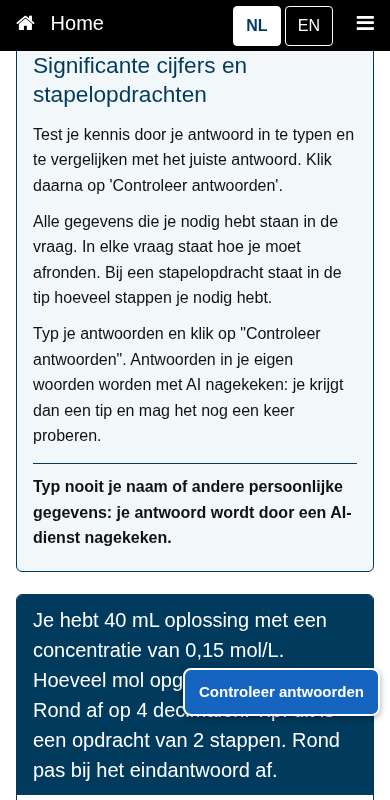
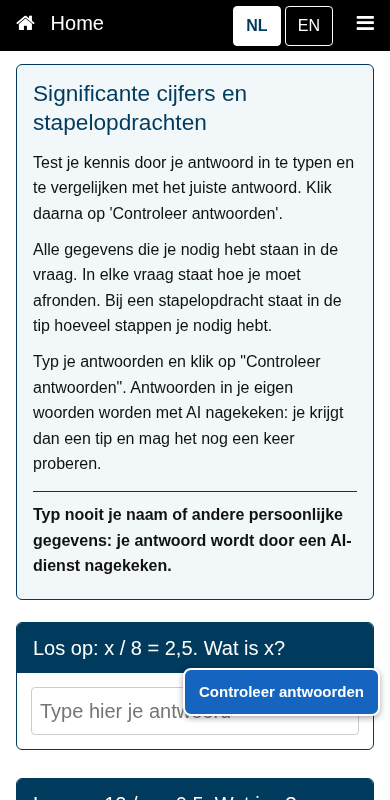
Intro-kader: ruimte onder vaste menubalk; cache-bust 20261101d; live-test + schermafbeeldingen

Changed region(s): [[0.0308, 0.0625, 0.9846, 1.0]]

diff --git a/index.html b/index.html
@@ -8,11 +8,11 @@
     <link rel="stylesheet" href="https://www.w3schools.com/w3css/4/w3.css">
     <link rel="stylesheet" href="https://www.w3schools.com/lib/w3-theme-black.css">
     <link rel="stylesheet" href="https://cdnjs.cloudflare.com/ajax/libs/font-awesome/4.7.0/css/font-awesome.min.css">
-    <link rel="stylesheet" href="123school.css?v=20261101c">
+    <link rel="stylesheet" href="123school.css?v=20261101d">
     <link rel="stylesheet" href="https://maxcdn.bootstrapcdn.com/bootstrap/3.3.7/css/bootstrap.min.css">
     <script src="https://ajax.googleapis.com/ajax/libs/jquery/3.3.1/jquery.min.js"></script>
     <script src="https://maxcdn.bootstrapcdn.com/bootstrap/3.3.7/js/bootstrap.min.js"></script>
-    <script src="i18n.js?v=20261101c"></script>
+    <script src="i18n.js?v=20261101d"></script>
 </head>
 <body class="home" id="myPage" data-pagina="index">
 <!-- Alle tekst komt uit lang/<taal>/ui.json (i18n.js): data-i18n="sleutel" -->
@@ -106,6 +106,6 @@
 </div>
 
 <div id="voet"></div>
-<script src="school.js?v=20261101c"></script>
+<script src="school.js?v=20261101d"></script>
 </body>
 </html>

diff --git a/rv3h-significante-cijfers-stappen-KB.html b/rv3h-significante-cijfers-stappen-KB.html
@@ -8,8 +8,8 @@
 <link rel="stylesheet" href="https://www.w3schools.com/w3css/4/w3.css">
 <link rel="stylesheet" href="https://www.w3schools.com/lib/w3-theme-black.css">
 <link rel="stylesheet" href="https://cdnjs.cloudflare.com/ajax/libs/font-awesome/4.7.0/css/font-awesome.min.css">
-<link rel="stylesheet" href="123school.css?v=20261101c">
-<script src="i18n.js?v=20261101c"></script>
+<link rel="stylesheet" href="123school.css?v=20261101d">
+<script src="i18n.js?v=20261101d"></script>
 </head>
 <body id="myPage" data-pagina="kb" data-inhoud="rv3h-significante-cijfers-stappen-KB">
 <!-- Alle tekst komt uit lang/<taal>/ui.json en lang/<taal>/rv3h-significante-cijfers-stappen-KB.json (i18n.js) -->
@@ -22,7 +22,7 @@
 </div>
 <div id="voet"></div>
 
-<script src="school.js?v=20261101c"></script>
-<script src="ai-nakijken.js?v=20261101c" defer></script>
+<script src="school.js?v=20261101d"></script>
+<script src="ai-nakijken.js?v=20261101d" defer></script>
 </body>
 </html>

diff --git a/sk3t-stoffen-KB.html b/sk3t-stoffen-KB.html
@@ -8,8 +8,8 @@
 <link rel="stylesheet" href="https://www.w3schools.com/w3css/4/w3.css">
 <link rel="stylesheet" href="https://www.w3schools.com/lib/w3-theme-black.css">
 <link rel="stylesheet" href="https://cdnjs.cloudflare.com/ajax/libs/font-awesome/4.7.0/css/font-awesome.min.css">
-<link rel="stylesheet" href="123school.css?v=20261101c">
-<script src="i18n.js?v=20261101c"></script>
+<link rel="stylesheet" href="123school.css?v=20261101d">
+<script src="i18n.js?v=20261101d"></script>
 </head>
 <body id="myPage" data-pagina="kb" data-inhoud="sk3t-stoffen-KB">
 <!-- Alle tekst komt uit lang/<taal>/ui.json en lang/<taal>/sk3t-stoffen-KB.json (i18n.js) -->
@@ -23,7 +23,7 @@
 </div>
 <div id="voet"></div>
 
-<script src="school.js?v=20261101c"></script>
-<script src="ai-nakijken.js?v=20261101c" defer></script>
+<script src="school.js?v=20261101d"></script>
+<script src="ai-nakijken.js?v=20261101d" defer></script>
 </body>
 </html>

diff --git a/sk3t-stoffen-MP.html b/sk3t-stoffen-MP.html
@@ -8,8 +8,8 @@
 <link rel="stylesheet" href="https://www.w3schools.com/w3css/4/w3.css">
 <link rel="stylesheet" href="https://www.w3schools.com/lib/w3-theme-black.css">
 <link rel="stylesheet" href="https://cdnjs.cloudflare.com/ajax/libs/font-awesome/4.7.0/css/font-awesome.min.css">
-<link rel="stylesheet" href="123school.css?v=20261101c">
-<script src="i18n.js?v=20261101c"></script>
+<link rel="stylesheet" href="123school.css?v=20261101d">
+<script src="i18n.js?v=20261101d"></script>
 </head>
 <body id="myPage" data-pagina="mp" data-inhoud="sk3t-stoffen-MP">
 <div id="navbar"></div>
@@ -24,6 +24,6 @@
 </div>
 <div id="voet"></div>
 
-<script src="school.js?v=20261101c"></script>
+<script src="school.js?v=20261101d"></script>
 </body>
 </html>

diff --git a/123school.css b/123school.css
@@ -526,7 +526,7 @@ table { max-width: 100%; }
   border-radius: 6px;
   background-color: #F2F7FA;
   padding: 18px 24px 14px 24px;
-  margin: 8px 0 28px 0;
+  margin: 34px 0 28px 0;
   font-family: Arial, Helvetica, sans-serif;
   font-size: 12pt;
   line-height: 1.6;
@@ -549,6 +549,6 @@ table { max-width: 100%; }
   border-top: 1px solid #003A5C;
 }
 @media (max-width: 600px) {
-  .kb-intro { padding: 14px 16px 10px 16px; margin: 6px 0 22px 0; }
+  .kb-intro { padding: 14px 16px 10px 16px; margin: 34px 0 22px 0; }
   .kb-intro h2 { font-size: 17pt; }
 }

diff --git a/tests/live_intro.py b/tests/live_intro.py
@@ -1,0 +1,34 @@
+"""Live-controle (GitHub Pages): intro-kader + '=' tweak, met schermafbeeldingen in ../screens/ (live_intro_*)."""
+import sys, os
+sys.path.insert(0, os.path.dirname(os.path.abspath(__file__)))
+from common import browser, sync_playwright, ROOT
+BASE = 'https://p12357911-sudo.github.io/training-en-preview'; S = os.path.join(ROOT, 'screens')
+ok = True
+with sync_playwright() as p:
+    b = browser(p)
+    for taal in ('en', 'nl'):
+        for naam, size in (('1280', {'width': 1280, 'height': 900}), ('390', {'width': 390, 'height': 800})):
+            ctx = b.new_context(viewport=size, locale='en-GB' if taal == 'en' else 'nl-NL'); page = ctx.new_page(); errs = []
+            page.on('pageerror', lambda e: errs.append(str(e)))
+            page.goto(f'{BASE}/rv3h-significante-cijfers-stappen-KB.html?lang={taal}'); page.wait_for_timeout(3000)
+            k = page.query_selector('#kb-intro')
+            print(taal, naam, 'kader:', bool(k), 'privacy in kader:', bool(page.query_selector('#kb-intro #ai-privacy')), 'scrollbreedte:', page.evaluate('document.documentElement.scrollWidth-document.documentElement.clientWidth'), 'fouten:', errs)
+            ok &= bool(k) and not errs
+            if taal == 'en':
+                page.screenshot(path=f'{S}/live_intro_{naam}.png')
+                # tweak live: 8x2.5=20
+                for txt in ('20', '8x2.5=20', '8x2.5=21'):
+                    for _ in range(10):
+                        m = page.query_selector('button:has-text("More questions")')
+                        if not m or not m.is_visible(): break
+                        m.click(); page.wait_for_timeout(100)
+                    for it in page.query_selector_all('.kb-item'):
+                        if 'x / 8 = 2.5' in it.query_selector('.vraag-knop').inner_text():
+                            page.evaluate("document.querySelectorAll('.kb-item input[type=text]').forEach(i=>{i.value=''})")
+                            it.query_selector('input[type=text]').fill(txt); page.click('#kb-controleer'); page.wait_for_timeout(700)
+                            o = it.query_selector('.kb-oordeel'); print('  ', repr(txt), '->', o.inner_text().split('\n')[0] if o else '-')
+                            if txt == '8x2.5=20':
+                                it.scroll_into_view_if_needed(); page.wait_for_timeout(200); page.screenshot(path=f'{S}/live_tweak_{naam}.png')
+            ctx.close()
+    b.close()
+sys.exit(0 if ok else 1)
